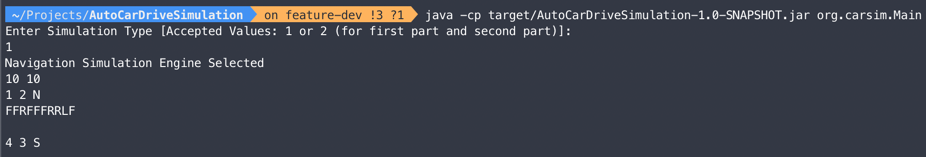
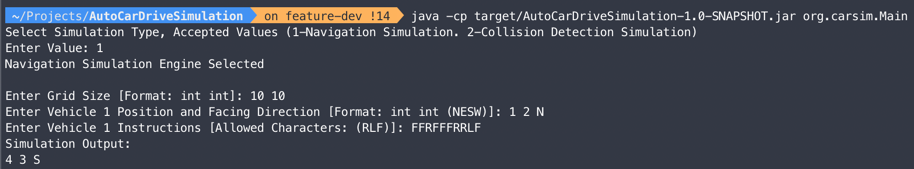
Fix: Simulation grid boundry detection, user input prompts

diff --git a/src/main/java/org/carsim/util/InputPrompter.java b/src/main/java/org/carsim/util/InputPrompter.java
@@ -1,9 +1,8 @@
 package org.carsim.util;
 
+import java.io.PrintStream;
 import java.util.Arrays;
 import java.util.Scanner;
-import java.util.logging.Level;
-import java.util.logging.Logger;
 
 
 /**
@@ -16,8 +15,6 @@ import java.util.logging.Logger;
  * </p>
  */
 public class InputPrompter {
-
-    private final Logger logger = Logger.getLogger(getClass().getName());
     InputValidator inputValidator;
 
     public InputPrompter(InputValidator inputValidator) {
@@ -27,19 +24,20 @@ public class InputPrompter {
     public int simulationTypePrompt(Scanner scanner) {
         String simulationTypeInput;
         boolean isInputValid;
+        PrintStream out = new PrintStream(System.out);
         do {
-            System.out.println("Enter Simulation Type [Accepted Values: 1 or 2 (for first part and second part)]:");
+            out.printf("Select Simulation Type, Accepted Values (1-Navigation Simulation. 2-Collision Detection Simulation) %nEnter Value: ");
             simulationTypeInput = scanner.nextLine();
             isInputValid = inputValidator.validateSimulationType(simulationTypeInput);
             if (!isInputValid) {
-                System.out.println("Invalid Input - Accepted Values: 1,2 ");
+                out.println("Invalid Input - Accepted Values: 1,2 ");
             }
         } while (!isInputValid);
         int engineType = Integer.parseInt(simulationTypeInput);
-        if(engineType == Constants.NAVIGATION_SIMULATION) {
-            System.out.println("Navigation Simulation Engine Selected");
+        if (engineType == Constants.NAVIGATION_SIMULATION) {
+            out.println("Navigation Simulation Engine Selected\n");
         } else {
-            System.out.println("Collision Detection Simulation Engine Selected");
+            out.println("Collision Detection Simulation Engine Selected\n");
         }
         return Integer.parseInt(simulationTypeInput);
     }
@@ -48,39 +46,50 @@ public class InputPrompter {
         String gridSizeInput;
         boolean isInputValid;
         do {
+            PrintStream out = new PrintStream(System.out);
+            out.print("Enter Grid Size [Format: int int]: ");
             gridSizeInput = scanner.nextLine();
             isInputValid = inputValidator.validateGridInput(gridSizeInput);
             if (!isInputValid) {
-                logger.log(Level.SEVERE, "Invalid Input - Accepted Values: positive integers");
+                out.println("Invalid Input - Accepted Values: positive integers");
             }
         } while (!isInputValid);
 
         return Arrays.stream(gridSizeInput.split(" ")).mapToInt(Integer::parseInt).toArray();
     }
 
-    public String[] vehicleLocationPrompt(Scanner scanner) {
+    public String[] vehicleLocationPrompt(Scanner scanner, int[] gridSize, int vehicleIndex) {
         String vehicleLocationOrientationInput;
         boolean isInputValid;
+        boolean isLocationValid;
         do {
+            PrintStream out = new PrintStream(System.out);
+            out.printf("Enter Vehicle %s Position and Facing Direction [Format: int int (NESW)]: ", vehicleIndex);
             vehicleLocationOrientationInput = scanner.nextLine();
             isInputValid = inputValidator.validateCarPositionAndOrientation(vehicleLocationOrientationInput);
+            isLocationValid = inputValidator.validateInitialVehiclePosition(vehicleLocationOrientationInput, gridSize);
             if (!isInputValid) {
-                logger.log(Level.SEVERE, "Invalid Input - Accepted Values: int int [NESW]");
+                out.println("Invalid Input - Accepted Format: int int [NESW]");
             }
-        } while (!isInputValid);
+            if (!isLocationValid) {
+                out.println("Invalid Initial Location - Out of Grid");
+            }
+        } while (!isInputValid || !isLocationValid);
 
 
         return vehicleLocationOrientationInput.split(" ");
     }
 
-    public char[] instructionPrompt(Scanner scanner) {
+    public char[] instructionPrompt(Scanner scanner, int vehicleIndex) {
         String instruction;
         boolean isInputValid;
         do {
+            PrintStream out = new PrintStream(System.out);
+            out.printf("Enter Vehicle %s Instructions [Allowed Characters: (R,L,F)]: ", vehicleIndex);
             instruction = scanner.nextLine();
             isInputValid = inputValidator.validateCommands(instruction);
             if (!isInputValid) {
-                logger.log(Level.SEVERE, "Invalid Input - Accepted Values: LFR");
+                out.println("Invalid Input - Allowed Characters: R,L,F");
             }
         } while (!isInputValid);
 
@@ -91,25 +100,28 @@ public class InputPrompter {
         String vehicleCount;
         boolean isInputValid;
         do {
-            System.out.println("Number of vehicles in simulation: ");
+            PrintStream out = new PrintStream(System.out);
+            out.print("Number of vehicles in simulation [Format: Integer larger Than 1]: ");
             vehicleCount = scanner.nextLine();
             isInputValid = inputValidator.validateVehicleCount(vehicleCount);
             if (!isInputValid) {
-                logger.log(Level.SEVERE, "Invalid Input - Accepted Values: positive integers");
+                out.println("Invalid Input - Number of vehicles should be more than one to detect collisions");
             }
         } while (!isInputValid);
 
         return Integer.parseInt(vehicleCount);
     }
 
-    public String vehicleNamePrompt(Scanner scanner) {
+    public String vehicleNamePrompt(Scanner scanner, int vehicleIndex) {
         String vehicleName;
         boolean isInputValid;
         do {
+            PrintStream out = new PrintStream(System.out);
+            out.printf("Enter Vehicle %s Name: ", vehicleIndex);
             vehicleName = scanner.nextLine();
             isInputValid = inputValidator.validateVehicleLabel(vehicleName);
             if (!isInputValid) {
-                logger.log(Level.SEVERE, "Invalid Input - Accepted Values: English Letters without space");
+                out.println("Invalid Input - Accepted Values: English Letters without space");
             }
         } while (!isInputValid);
 

diff --git a/src/main/java/org/carsim/simulation/NavigationSimulationEngine.java b/src/main/java/org/carsim/simulation/NavigationSimulationEngine.java
@@ -42,7 +42,7 @@ public class NavigationSimulationEngine implements SimulationEngine {
         switch (command) {
             case 'F':
                 if (simulationGrid.isWithInBounds(car.getCoordinate().getX(), car.getCoordinate().getY())) {
-                    moveForward(car);
+                    moveForward(car,simulationGrid.getWidth(), simulationGrid.getHeight());
                 }
                 break;
             case 'R':
@@ -63,19 +63,19 @@ public class NavigationSimulationEngine implements SimulationEngine {
      * @throws UndefinedOrientationException If the orientation of the car is undefined.
      */
 
-    public void moveForward(Car car) {
+    public void moveForward(Car car, int gridWidth, int gridHeight) {
         switch (car.getOrientation()) {
             case NORTH:
-                car.getCoordinate().setY(car.getCoordinate().getY() + 1);
+                car.getCoordinate().setY(Math.min(car.getCoordinate().getY() + 1, gridHeight-1));
                 break;
             case EAST:
-                car.getCoordinate().setX(car.getCoordinate().getX() + 1);
+                car.getCoordinate().setX(Math.min(car.getCoordinate().getX() + 1, gridWidth-1));
                 break;
             case SOUTH:
-                car.getCoordinate().setY(car.getCoordinate().getY() - 1);
+                car.getCoordinate().setY(Math.max(car.getCoordinate().getY() - 1, 0));
                 break;
             case WEST:
-                car.getCoordinate().setX(car.getCoordinate().getX() - 1);
+                car.getCoordinate().setX(Math.max(car.getCoordinate().getX() - 1,0));
                 break;
             default:
                 throw new UndefinedOrientationException(Constants.UNDEFINED_ORIENTATION);

diff --git a/src/main/java/org/carsim/util/SimulationGridCreator.java b/src/main/java/org/carsim/util/SimulationGridCreator.java
@@ -16,17 +16,19 @@ public class SimulationGridCreator {
     }
 
     public static SimulationGrid createCoordinateField(Scanner scanner, int vehicleCount) {
-        InputPrompter inputPrompter = new InputPrompter(new InputValidator());
+        InputValidator inputValidator = new InputValidator();
+        InputPrompter inputPrompter = new InputPrompter(inputValidator);
         int[] gridSize = inputPrompter.gridSizePrompt(scanner);
+
         List<CarSimulation> carSimulations = new ArrayList<>();
         for (int i = 0; i < vehicleCount; i++) {
             String vehicleName = null;
             if (vehicleCount > 1) {
-                vehicleName = inputPrompter.vehicleNamePrompt(scanner);
+                vehicleName = inputPrompter.vehicleNamePrompt(scanner, (i+1));
             }
-            String[] vehiclePositionOrientation = inputPrompter.vehicleLocationPrompt(scanner);
-            char[] vehicleInstruction = inputPrompter.instructionPrompt(scanner);
+            String[] vehiclePositionOrientation = inputPrompter.vehicleLocationPrompt(scanner, gridSize, (i+1));
             Coordinate vehiclePosition = new Coordinate(Integer.parseInt(vehiclePositionOrientation[0]), Integer.parseInt(vehiclePositionOrientation[1]));
+            char[] vehicleInstruction = inputPrompter.instructionPrompt(scanner, (i+1));
             Car car = new Car(vehicleName, vehiclePosition, Orientation.valueOfEnum(vehiclePositionOrientation[2]));
             CarSimulation carSimulation = new CarSimulation(car, vehicleInstruction);
             carSimulations.add(carSimulation);

diff --git a/src/test/java/org/carsim/util/InputValidatorTest.java b/src/test/java/org/carsim/util/InputValidatorTest.java
@@ -35,11 +35,26 @@ class InputValidatorTest {
             "1 -1 S, false",
             "1 1 X, false",
             "11 -1 S, false",
-            "11 10 N, true",
+            "9 10 N, true",
+            "9 9 N, true",
+            "4 5 N, true",
             "0 0 N, true"
     })
     void validateCarPositionAndOrientation_ParametrizedValues(String userInput, boolean expected) {
         boolean isValid = inputValidator.validateCarPositionAndOrientation(userInput);
+        Assertions.assertEquals(expected, isValid);
+    }
+
+    @ParameterizedTest
+    @CsvSource({
+            "10 9 N, false",
+            "10 10 N, false",
+            "9 9 N, true",
+            "0 0 N, true"
+    })
+    void validateInitialCarPosition_ParametrizedValues(String userInput, boolean expected) {
+        int[] gridSize = new int[]{10, 10};
+        boolean isValid = inputValidator.validateInitialVehiclePosition(userInput, gridSize);
         Assertions.assertEquals(expected, isValid);
     }
 
@@ -76,8 +91,9 @@ class InputValidatorTest {
             "A, false",
             "#, false",
             "30, true",
-            "1, true",
-            "2, true"
+            "1, false",
+            "2, true",
+            "11, true",
     })
     void validateVehicleCount_ParametrizedValues(String userInput, boolean expected) {
         boolean isValid = inputValidator.validateVehicleCount(userInput);

diff --git a/src/main/java/org/carsim/util/InputValidator.java b/src/main/java/org/carsim/util/InputValidator.java
@@ -1,9 +1,14 @@
 package org.carsim.util;
 
+import org.carsim.model.Coordinate;
+
+import java.util.Arrays;
 import java.util.logging.Logger;
 
 public class InputValidator {
     Logger logger = Logger.getLogger(getClass().getName());
+
+    Coordinate gridMaxCoordinate;
 
     /**
      * Validates user input for grid size
@@ -26,7 +31,18 @@ public class InputValidator {
      */
     public boolean validateCarPositionAndOrientation(String input) {
         if (input == null) return false;
-        return input.matches(Constants.VEHICLE_POS_ORIENTATION_INPUT_REGEX);
+       return input.matches(Constants.VEHICLE_POS_ORIENTATION_INPUT_REGEX);
+    }
+
+    /**
+     * Validates a given vehicle is with in the bounds of the grid
+     * @param input user input string containing vehicle location
+     * @param gridSize integer array contains grid width and height
+     * @return given true if given vehicle location is within the bounds of the grid
+     */
+    public boolean validateInitialVehiclePosition(String input, int[] gridSize) {
+        int[] vehicleLocation = Arrays.stream(input.split(" ")).limit(2).mapToInt(Integer::parseInt).toArray();
+        return vehicleLocation[0] < gridSize[0] && vehicleLocation[1] < gridSize[1];
     }
 
     /**

diff --git a/src/main/java/org/carsim/simulation/CollisionDetectionSimulationEngine.java b/src/main/java/org/carsim/simulation/CollisionDetectionSimulationEngine.java
@@ -44,7 +44,13 @@ public class CollisionDetectionSimulationEngine extends NavigationSimulationEngi
         if (optionalInt.isPresent()) {
             maxSimulationTime = optionalInt.getAsInt();
         }
-        while (time < maxSimulationTime) {
+        // Set initial positions
+        for (CarSimulation carSimulation : simulationGrid.getVehicleSimulations()) {
+            vehicleLocationMap.put(carSimulation.getVehicle().getCarLabel(), carSimulation.getVehicle().getCoordinate());
+        }
+        // Check for initial collisions
+        collisionList.addAll(detectCollisions());
+        while (time < maxSimulationTime && collisionList.isEmpty()) {
             for (CarSimulation carSimulation : simulationGrid.getVehicleSimulations()) {
                 if (time < carSimulation.getInstructionArray().length) {
                     simulateNavigation(simulationGrid, carSimulation.getVehicle(), carSimulation.getInstructionArray()[time]);

diff --git a/src/main/java/org/carsim/Main.java b/src/main/java/org/carsim/Main.java
@@ -9,8 +9,8 @@ import org.carsim.util.InputPrompter;
 import org.carsim.util.InputValidator;
 import org.carsim.util.SimulationGridCreator;
 
+import java.io.PrintStream;
 import java.util.Scanner;
-import java.util.logging.Logger;
 
 import static org.carsim.util.ExceptionHandler.handleException;
 
@@ -39,11 +39,10 @@ public class Main {
         }
         SimulationGrid simulationGrid = SimulationGridCreator.createCoordinateField(scanner, vehicleCount);
         try {
-            System.out.println("\n" + simulationContext.executeEngine(simulationGrid));
+            new PrintStream(System.out).printf("Simulation Output: %n%s%n", simulationContext.executeEngine(simulationGrid));
         } catch (Exception e) {
             handleException(e);
-
         }
-        scanner.close();
+
     }
 }

diff --git a/src/main/java/org/carsim/util/Constants.java b/src/main/java/org/carsim/util/Constants.java
@@ -8,7 +8,7 @@ public final class Constants {
     public static final String VEHICLE_POS_ORIENTATION_INPUT_REGEX = "[0-9]\\d* [0-9]\\d* [" + Constants.ACCEPTED_DIRECTIONS + "]";
     public static final String VEHICLE_COMMAND_INPUT_REGEX = "[" + Constants.ACCEPTED_COMMANDS + "]+";
     public static final String VEHICLE_NAME_INPUT_REGEX = "[a-zA-Z]+";
-    public static final String VEHICLE_COUNT_INPUT_REGEX = "[1-9]\\d*";
+    public static final String VEHICLE_COUNT_INPUT_REGEX = "[2-9]\\d*|[1-9]\\d+";
     public static final String SIMULATION_TYPE = "[12]";
     public static final String NO_COLLISIONS = "no collision";
     public static final String UNDEFINED_ORIENTATION = "Undefined Vehicle Orientation";

diff --git a/src/main/java/org/carsim/model/SimulationGrid.java b/src/main/java/org/carsim/model/SimulationGrid.java
@@ -19,9 +19,17 @@ public class SimulationGrid {
     }
 
     public boolean isWithInBounds(int x, int y) {
-        return x < width - 1 &&
+        return x < width &&
                 x >= 0 &&
-                y < height - 1 &&
+                y < height &&
                 y >= 0;
+    }
+
+    public int getWidth() {
+        return width;
+    }
+
+    public int getHeight() {
+        return height;
     }
 }

diff --git a/src/main/java/org/carsim/model/Collision.java b/src/main/java/org/carsim/model/Collision.java
@@ -16,6 +16,6 @@ public class Collision {
      */
     @Override
     public String toString() {
-        return String.join(" ", vehicleNames) + "\n" + coordinate.getX() + " " + coordinate.getY() + "\n" + time + "\n";
+        return String.join(" ", vehicleNames) + "\n" + coordinate.getX() + " " + coordinate.getY() + "\n" + time;
     }
 }

diff --git a/src/test/java/org/carsim/simulation/CollisionDetectionSimulationEngineTest.java b/src/test/java/org/carsim/simulation/CollisionDetectionSimulationEngineTest.java
@@ -46,7 +46,7 @@ class CollisionDetectionSimulationEngineTest {
 
         String result = collisionDetectionSimulationEngine.simulate(simulationGrid);
 
-        assertEquals("A B" + "\n" + 5 + " " + 4 + "\n" + 7 + "\n", result);
+        assertEquals("A B" + "\n" + 5 + " " + 4 + "\n" + 7, result);
     }
 
     @Test

diff --git a/src/main/java/org/carsim/simulation/base/Movable.java b/src/main/java/org/carsim/simulation/base/Movable.java
@@ -3,5 +3,5 @@ package org.carsim.simulation.base;
 import org.carsim.model.Car;
 
 public interface Movable {
-    void moveForward(Car car);
+    void moveForward(Car car, int gridWidth, int gridHeight);
 }
